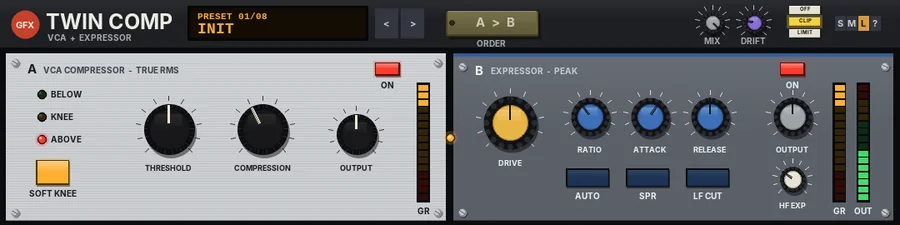
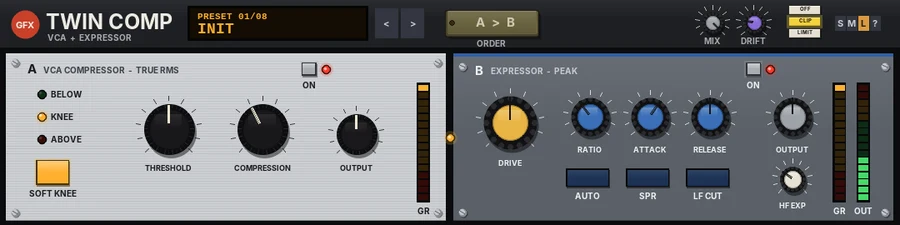
Twin Comp: panel image and manual for the new ON keys
Claude-Session: https://claude.ai/code/session_01EwsggPNgywXX6HG8VAWiaU

diff --git a/Manuals/gfx-twin-comp.html b/Manuals/gfx-twin-comp.html
@@ -47,7 +47,7 @@ footer{border-top:1px solid var(--line);margin-top:40px;padding:24px 0 40px;colo
 <div class="shot"><img src="img/gfx-twin-comp.webp" alt="The Twin Comp panel" loading="lazy"></div>
 <h2>Overview</h2><p>Twin Comp puts two very different compressors side by side. Unit A is a VCA compressor in the spirit of the classic late-70s RMS boxes: it measures loudness rather than peaks, has a soft knee, and its timing follows the music. Its COMPRESSION knob runs from 1:1 through INF:1 and on into negative ratios.</p><p>Unit B is an Expressor in the spirit of the classic 80s expander-compressors: peak-sensing with a smooth knee, with DRIVE, RATIO, ATTACK and RELEASE, an AUTO timing mode, HF EXP to keep the top open under heavy compression, SPR to firm up the low end and LF CUT to stop the bass from pumping it.</p><p>ORDER sets which unit comes first, and the two units swap places on the panel to match. MIX blends in the dry signal for parallel compression.</p>
 <h3>Reach for it for</h3><ul class="when"><li>Drum buses that want punch and control (A into B)</li><li>Vocals that need firm, open-sounding compression (B with HF EXP)</li><li>Bass that needs a tight, steady bottom (SPR)</li><li>Gentle glue on a mix (both units lightly)</li><li>Pumping and reverse-dynamics effects (A past INF)</li></ul>
-<h2>Controls</h2><p>Drag a knob up or down to turn it (hold Shift for fine moves), or double-click to reset it. The value shows while the mouse is over a knob, and the display shows the control you are changing.</p><h3>The top strip</h3><dl class="ctl"><dt>Display</dt><dd>Shows the preset number and name, or for a moment the control you have just changed. Click it for the preset list.</dd><dt>&lt; and &gt;</dt><dd>Step to the previous or next preset.</dd><dt>ORDER</dt><dd>Click to swap the order: A &gt; B or B &gt; A. The two units change places on the panel so the first one is on the left. The key's light shows while it is held.</dd><dt>MIX</dt><dd>Parallel compression, 0 - 100%: 100% is fully compressed, lower settings blend the dry signal back in.</dd><dt>DRIFT</dt><dd>An uneven supply under both VCAs, 0 - 100% (20% by default): each unit's gain wobbles very slightly (up to +/-0.15 dB at 100%) and unit A's colour moves with it. It stays level-neutral.</dd><dt>OFF / CLIP / LIMIT</dt><dd>The final stage: nothing, a soft clipper that holds the peaks at -0.3 dBFS (no latency), or a lookahead limiter that holds them at -0.3 dBFS (3 ms latency, compensated by REAPER). The CLIP key flashes red while the clipper is working.</dd><dt>S / M / L</dt><dd>Panel size: small, medium or large. The panel also scales to fit the plugin window.</dd><dt>?</dt><dd>Opens a pop-up with the design credit, the GFX website address and the address of this manual. Click anywhere to close it.</dd></dl><h3>A - VCA COMPRESSOR (true RMS)</h3><dl class="ctl"><dt>ON</dt><dd>Switches unit A in or out.</dd><dt>BELOW / KNEE / ABOVE</dt><dd>Three lights showing where the level sits against the threshold: green below it, amber in the soft knee, red above it.</dd><dt>THRESHOLD</dt><dd>The level where compression starts, -40 to 0 dB. Because the unit measures loudness, it relates to the average level rather than the peaks.</dd><dt>COMPRESSION</dt><dd>The ratio. From fully left (1:1) it rises to INF:1 at 80% of its travel; past that it becomes negative, down to -2:1 at the end: the louder the input, the quieter the output. The value is shown as a ratio.</dd><dt>OUTPUT</dt><dd>Unit A's make-up gain, -20 to +20 dB.</dd><dt>SOFT KNEE</dt><dd>On (default): the ratio eases in over 10 dB around the threshold. Off: a hard knee, firmer and more obvious.</dd><dt>GR</dt><dd>The column of lights shows unit A's gain reduction, 0 to 20 dB.</dd></dl><p>There are no attack or release controls on unit A: the further the signal goes over the threshold, the faster it reacts (about 15 ms for 10 dB over, 5 ms for 20 dB), and it recovers at a steady 120 dB per second. It adds a whisper of 2nd harmonic that grows with the gain reduction.</p><h3>B - EXPRESSOR (peak)</h3><dl class="ctl"><dt>ON</dt><dd>Switches unit B in or out.</dd><dt>DRIVE</dt><dd>How hard the signal is pushed into the compressor, 0 to +40 dB. More drive means more compression (it sets the threshold from 0 down to -40 dB).</dd><dt>RATIO</dt><dd>1:1 to 20:1.</dd><dt>ATTACK</dt><dd>0.1 - 50 ms. Reads AUTO when AUTO is on.</dd><dt>RELEASE</dt><dd>30 ms - 3 s. Reads AUTO when AUTO is on.</dd><dt>OUTPUT</dt><dd>Unit B's make-up gain, -20 to +20 dB.</dd><dt>AUTO</dt><dd>Automatic, smooth optical-style timing: a quick attack and a two-stage release that follows the programme. ATTACK and RELEASE are not used.</dd><dt>SPR</dt><dd>Rotates the phase of the low end against the top (two all-pass stages at 180 Hz) for a tighter, firmer bottom.</dd><dt>LF CUT</dt><dd>A 150 Hz high-pass on what the compressor listens to only, so bass peaks no longer pump it. The bass itself is not filtered.</dd><dt>HF EXP</dt><dd>0 - 100%: lifts the top end (above about 3.5 kHz) in proportion to the gain reduction, up to +6 dB, so heavy compression stays open and bright.</dd><dt>GR</dt><dd>The column of lights shows unit B's gain reduction, 0 to 20 dB.</dd><dt>OUT</dt><dd>The output level of the whole plug-in, -30 dBFS to 0.</dd></dl><p>A light between the two units glows when both are on.</p>
+<h2>Controls</h2><p>Drag a knob up or down to turn it (hold Shift for fine moves), or double-click to reset it. The value shows while the mouse is over a knob, and the display shows the control you are changing.</p><h3>The top strip</h3><dl class="ctl"><dt>Display</dt><dd>Shows the preset number and name, or for a moment the control you have just changed. Click it for the preset list.</dd><dt>&lt; and &gt;</dt><dd>Step to the previous or next preset.</dd><dt>ORDER</dt><dd>Click to swap the order: A &gt; B or B &gt; A. The two units change places on the panel so the first one is on the left. The key's light shows while it is held.</dd><dt>MIX</dt><dd>Parallel compression, 0 - 100%: 100% is fully compressed, lower settings blend the dry signal back in.</dd><dt>DRIFT</dt><dd>An uneven supply under both VCAs, 0 - 100% (20% by default): each unit's gain wobbles very slightly (up to +/-0.15 dB at 100%) and unit A's colour moves with it. It stays level-neutral.</dd><dt>OFF / CLIP / LIMIT</dt><dd>The final stage: nothing, a soft clipper that holds the peaks at -0.3 dBFS (no latency), or a lookahead limiter that holds them at -0.3 dBFS (3 ms latency, compensated by REAPER). The CLIP key flashes red while the clipper is working.</dd><dt>S / M / L</dt><dd>Panel size: small, medium or large. The panel also scales to fit the plugin window.</dd><dt>?</dt><dd>Opens a pop-up with the design credit, the GFX website address and the address of this manual. Click anywhere to close it.</dd></dl><h3>A - VCA COMPRESSOR (true RMS)</h3><dl class="ctl"><dt>ON</dt><dd>Switches unit A in or out. The red light beside it is lit while the unit is in.</dd><dt>BELOW / KNEE / ABOVE</dt><dd>Three lights showing where the level sits against the threshold: green below it, amber in the soft knee, red above it.</dd><dt>THRESHOLD</dt><dd>The level where compression starts, -40 to 0 dB. Because the unit measures loudness, it relates to the average level rather than the peaks.</dd><dt>COMPRESSION</dt><dd>The ratio. From fully left (1:1) it rises to INF:1 at 80% of its travel; past that it becomes negative, down to -2:1 at the end: the louder the input, the quieter the output. The value is shown as a ratio.</dd><dt>OUTPUT</dt><dd>Unit A's make-up gain, -20 to +20 dB.</dd><dt>SOFT KNEE</dt><dd>On (default): the ratio eases in over 10 dB around the threshold. Off: a hard knee, firmer and more obvious.</dd><dt>GR</dt><dd>The column of lights shows unit A's gain reduction, 0 to 20 dB.</dd></dl><p>There are no attack or release controls on unit A: the further the signal goes over the threshold, the faster it reacts (about 15 ms for 10 dB over, 5 ms for 20 dB), and it recovers at a steady 120 dB per second. It adds a whisper of 2nd harmonic that grows with the gain reduction.</p><h3>B - EXPRESSOR (peak)</h3><dl class="ctl"><dt>ON</dt><dd>Switches unit B in or out. The red light beside it is lit while the unit is in.</dd><dt>DRIVE</dt><dd>How hard the signal is pushed into the compressor, 0 to +40 dB. More drive means more compression (it sets the threshold from 0 down to -40 dB).</dd><dt>RATIO</dt><dd>1:1 to 20:1.</dd><dt>ATTACK</dt><dd>0.1 - 50 ms. Reads AUTO when AUTO is on.</dd><dt>RELEASE</dt><dd>30 ms - 3 s. Reads AUTO when AUTO is on.</dd><dt>OUTPUT</dt><dd>Unit B's make-up gain, -20 to +20 dB.</dd><dt>AUTO</dt><dd>Automatic, smooth optical-style timing: a quick attack and a two-stage release that follows the programme. ATTACK and RELEASE are not used.</dd><dt>SPR</dt><dd>Rotates the phase of the low end against the top (two all-pass stages at 180 Hz) for a tighter, firmer bottom.</dd><dt>LF CUT</dt><dd>A 150 Hz high-pass on what the compressor listens to only, so bass peaks no longer pump it. The bass itself is not filtered.</dd><dt>HF EXP</dt><dd>0 - 100%: lifts the top end (above about 3.5 kHz) in proportion to the gain reduction, up to +6 dB, so heavy compression stays open and bright.</dd><dt>GR</dt><dd>The column of lights shows unit B's gain reduction, 0 to 20 dB.</dd><dt>OUT</dt><dd>The output level of the whole plug-in, -30 dBFS to 0.</dd></dl><p>A light between the two units glows when both are on.</p>
 <h2>Presets</h2><p>A preset sets the order, both units, which units are on, and MIX. DRIFT and the OFF / CLIP / LIMIT keys are left as they are.</p><dl class="ctl"><dt>Init</dt><dd>Both units on, A &gt; B, at their starting values.</dd><dt>Drum Bus</dt><dd>Unit A only at 4:1 with a soft knee and 4 dB of make-up.</dd><dt>Vocal Expressor</dt><dd>Unit B only, 4:1 with AUTO timing, LF CUT and HF EXP, 5 dB of make-up.</dd><dt>Bass Tight</dt><dd>A &gt; B: A with a hard knee, then B with SPR for a firm bottom.</dd><dt>Mix Glue</dt><dd>B &gt; A: gentle 2:1 Expressor with AUTO, SPR and LF CUT, then light VCA compression.</dd><dt>Parallel Smash</dt><dd>A &gt; B, both working hard (A with a hard knee, B at 8:1 with fast timing), blended in at 40%.</dd><dt>Acoustic Natural</dt><dd>Unit B only, 2.5:1 with AUTO timing, LF CUT and a little HF EXP.</dd><dt>Negative Pump</dt><dd>Unit A only, past INF for pumping and reverse-dynamics effects.</dd></dl>
 <h2>Tips</h2><ul class="tips"><li>A &gt; B lets the VCA level the performance and the Expressor catch the peaks; B &gt; A lets the Expressor shape the tone first and the VCA glue it.</li><li>On a vocal, raise HF EXP as you add DRIVE on unit B, so the voice stays clear as it gets more compressed.</li><li>Watch the BELOW / KNEE / ABOVE lights: for gentle levelling, the amber KNEE light should be on most of the time.</li><li>Negative ratios sound best on sustained material and with MIX below 100%.</li></ul>
 <p class="file">File: gfx-twin-comp.jsfx</p></section></main>

diff --git a/Manuals/all.html b/Manuals/all.html
@@ -539,7 +539,7 @@ footer{border-top:1px solid var(--line);margin-top:40px;padding:24px 0 40px;colo
 <div class="shot"><img src="img/gfx-twin-comp.webp" alt="The Twin Comp panel" loading="lazy"></div>
 <h2>Overview</h2><p>Twin Comp puts two very different compressors side by side. Unit A is a VCA compressor in the spirit of the classic late-70s RMS boxes: it measures loudness rather than peaks, has a soft knee, and its timing follows the music. Its COMPRESSION knob runs from 1:1 through INF:1 and on into negative ratios.</p><p>Unit B is an Expressor in the spirit of the classic 80s expander-compressors: peak-sensing with a smooth knee, with DRIVE, RATIO, ATTACK and RELEASE, an AUTO timing mode, HF EXP to keep the top open under heavy compression, SPR to firm up the low end and LF CUT to stop the bass from pumping it.</p><p>ORDER sets which unit comes first, and the two units swap places on the panel to match. MIX blends in the dry signal for parallel compression.</p>
 <h3>Reach for it for</h3><ul class="when"><li>Drum buses that want punch and control (A into B)</li><li>Vocals that need firm, open-sounding compression (B with HF EXP)</li><li>Bass that needs a tight, steady bottom (SPR)</li><li>Gentle glue on a mix (both units lightly)</li><li>Pumping and reverse-dynamics effects (A past INF)</li></ul>
-<h2>Controls</h2><p>Drag a knob up or down to turn it (hold Shift for fine moves), or double-click to reset it. The value shows while the mouse is over a knob, and the display shows the control you are changing.</p><h3>The top strip</h3><dl class="ctl"><dt>Display</dt><dd>Shows the preset number and name, or for a moment the control you have just changed. Click it for the preset list.</dd><dt>&lt; and &gt;</dt><dd>Step to the previous or next preset.</dd><dt>ORDER</dt><dd>Click to swap the order: A &gt; B or B &gt; A. The two units change places on the panel so the first one is on the left. The key's light shows while it is held.</dd><dt>MIX</dt><dd>Parallel compression, 0 - 100%: 100% is fully compressed, lower settings blend the dry signal back in.</dd><dt>DRIFT</dt><dd>An uneven supply under both VCAs, 0 - 100% (20% by default): each unit's gain wobbles very slightly (up to +/-0.15 dB at 100%) and unit A's colour moves with it. It stays level-neutral.</dd><dt>OFF / CLIP / LIMIT</dt><dd>The final stage: nothing, a soft clipper that holds the peaks at -0.3 dBFS (no latency), or a lookahead limiter that holds them at -0.3 dBFS (3 ms latency, compensated by REAPER). The CLIP key flashes red while the clipper is working.</dd><dt>S / M / L</dt><dd>Panel size: small, medium or large. The panel also scales to fit the plugin window.</dd><dt>?</dt><dd>Opens a pop-up with the design credit, the GFX website address and the address of this manual. Click anywhere to close it.</dd></dl><h3>A - VCA COMPRESSOR (true RMS)</h3><dl class="ctl"><dt>ON</dt><dd>Switches unit A in or out.</dd><dt>BELOW / KNEE / ABOVE</dt><dd>Three lights showing where the level sits against the threshold: green below it, amber in the soft knee, red above it.</dd><dt>THRESHOLD</dt><dd>The level where compression starts, -40 to 0 dB. Because the unit measures loudness, it relates to the average level rather than the peaks.</dd><dt>COMPRESSION</dt><dd>The ratio. From fully left (1:1) it rises to INF:1 at 80% of its travel; past that it becomes negative, down to -2:1 at the end: the louder the input, the quieter the output. The value is shown as a ratio.</dd><dt>OUTPUT</dt><dd>Unit A's make-up gain, -20 to +20 dB.</dd><dt>SOFT KNEE</dt><dd>On (default): the ratio eases in over 10 dB around the threshold. Off: a hard knee, firmer and more obvious.</dd><dt>GR</dt><dd>The column of lights shows unit A's gain reduction, 0 to 20 dB.</dd></dl><p>There are no attack or release controls on unit A: the further the signal goes over the threshold, the faster it reacts (about 15 ms for 10 dB over, 5 ms for 20 dB), and it recovers at a steady 120 dB per second. It adds a whisper of 2nd harmonic that grows with the gain reduction.</p><h3>B - EXPRESSOR (peak)</h3><dl class="ctl"><dt>ON</dt><dd>Switches unit B in or out.</dd><dt>DRIVE</dt><dd>How hard the signal is pushed into the compressor, 0 to +40 dB. More drive means more compression (it sets the threshold from 0 down to -40 dB).</dd><dt>RATIO</dt><dd>1:1 to 20:1.</dd><dt>ATTACK</dt><dd>0.1 - 50 ms. Reads AUTO when AUTO is on.</dd><dt>RELEASE</dt><dd>30 ms - 3 s. Reads AUTO when AUTO is on.</dd><dt>OUTPUT</dt><dd>Unit B's make-up gain, -20 to +20 dB.</dd><dt>AUTO</dt><dd>Automatic, smooth optical-style timing: a quick attack and a two-stage release that follows the programme. ATTACK and RELEASE are not used.</dd><dt>SPR</dt><dd>Rotates the phase of the low end against the top (two all-pass stages at 180 Hz) for a tighter, firmer bottom.</dd><dt>LF CUT</dt><dd>A 150 Hz high-pass on what the compressor listens to only, so bass peaks no longer pump it. The bass itself is not filtered.</dd><dt>HF EXP</dt><dd>0 - 100%: lifts the top end (above about 3.5 kHz) in proportion to the gain reduction, up to +6 dB, so heavy compression stays open and bright.</dd><dt>GR</dt><dd>The column of lights shows unit B's gain reduction, 0 to 20 dB.</dd><dt>OUT</dt><dd>The output level of the whole plug-in, -30 dBFS to 0.</dd></dl><p>A light between the two units glows when both are on.</p>
+<h2>Controls</h2><p>Drag a knob up or down to turn it (hold Shift for fine moves), or double-click to reset it. The value shows while the mouse is over a knob, and the display shows the control you are changing.</p><h3>The top strip</h3><dl class="ctl"><dt>Display</dt><dd>Shows the preset number and name, or for a moment the control you have just changed. Click it for the preset list.</dd><dt>&lt; and &gt;</dt><dd>Step to the previous or next preset.</dd><dt>ORDER</dt><dd>Click to swap the order: A &gt; B or B &gt; A. The two units change places on the panel so the first one is on the left. The key's light shows while it is held.</dd><dt>MIX</dt><dd>Parallel compression, 0 - 100%: 100% is fully compressed, lower settings blend the dry signal back in.</dd><dt>DRIFT</dt><dd>An uneven supply under both VCAs, 0 - 100% (20% by default): each unit's gain wobbles very slightly (up to +/-0.15 dB at 100%) and unit A's colour moves with it. It stays level-neutral.</dd><dt>OFF / CLIP / LIMIT</dt><dd>The final stage: nothing, a soft clipper that holds the peaks at -0.3 dBFS (no latency), or a lookahead limiter that holds them at -0.3 dBFS (3 ms latency, compensated by REAPER). The CLIP key flashes red while the clipper is working.</dd><dt>S / M / L</dt><dd>Panel size: small, medium or large. The panel also scales to fit the plugin window.</dd><dt>?</dt><dd>Opens a pop-up with the design credit, the GFX website address and the address of this manual. Click anywhere to close it.</dd></dl><h3>A - VCA COMPRESSOR (true RMS)</h3><dl class="ctl"><dt>ON</dt><dd>Switches unit A in or out. The red light beside it is lit while the unit is in.</dd><dt>BELOW / KNEE / ABOVE</dt><dd>Three lights showing where the level sits against the threshold: green below it, amber in the soft knee, red above it.</dd><dt>THRESHOLD</dt><dd>The level where compression starts, -40 to 0 dB. Because the unit measures loudness, it relates to the average level rather than the peaks.</dd><dt>COMPRESSION</dt><dd>The ratio. From fully left (1:1) it rises to INF:1 at 80% of its travel; past that it becomes negative, down to -2:1 at the end: the louder the input, the quieter the output. The value is shown as a ratio.</dd><dt>OUTPUT</dt><dd>Unit A's make-up gain, -20 to +20 dB.</dd><dt>SOFT KNEE</dt><dd>On (default): the ratio eases in over 10 dB around the threshold. Off: a hard knee, firmer and more obvious.</dd><dt>GR</dt><dd>The column of lights shows unit A's gain reduction, 0 to 20 dB.</dd></dl><p>There are no attack or release controls on unit A: the further the signal goes over the threshold, the faster it reacts (about 15 ms for 10 dB over, 5 ms for 20 dB), and it recovers at a steady 120 dB per second. It adds a whisper of 2nd harmonic that grows with the gain reduction.</p><h3>B - EXPRESSOR (peak)</h3><dl class="ctl"><dt>ON</dt><dd>Switches unit B in or out. The red light beside it is lit while the unit is in.</dd><dt>DRIVE</dt><dd>How hard the signal is pushed into the compressor, 0 to +40 dB. More drive means more compression (it sets the threshold from 0 down to -40 dB).</dd><dt>RATIO</dt><dd>1:1 to 20:1.</dd><dt>ATTACK</dt><dd>0.1 - 50 ms. Reads AUTO when AUTO is on.</dd><dt>RELEASE</dt><dd>30 ms - 3 s. Reads AUTO when AUTO is on.</dd><dt>OUTPUT</dt><dd>Unit B's make-up gain, -20 to +20 dB.</dd><dt>AUTO</dt><dd>Automatic, smooth optical-style timing: a quick attack and a two-stage release that follows the programme. ATTACK and RELEASE are not used.</dd><dt>SPR</dt><dd>Rotates the phase of the low end against the top (two all-pass stages at 180 Hz) for a tighter, firmer bottom.</dd><dt>LF CUT</dt><dd>A 150 Hz high-pass on what the compressor listens to only, so bass peaks no longer pump it. The bass itself is not filtered.</dd><dt>HF EXP</dt><dd>0 - 100%: lifts the top end (above about 3.5 kHz) in proportion to the gain reduction, up to +6 dB, so heavy compression stays open and bright.</dd><dt>GR</dt><dd>The column of lights shows unit B's gain reduction, 0 to 20 dB.</dd><dt>OUT</dt><dd>The output level of the whole plug-in, -30 dBFS to 0.</dd></dl><p>A light between the two units glows when both are on.</p>
 <h2>Presets</h2><p>A preset sets the order, both units, which units are on, and MIX. DRIFT and the OFF / CLIP / LIMIT keys are left as they are.</p><dl class="ctl"><dt>Init</dt><dd>Both units on, A &gt; B, at their starting values.</dd><dt>Drum Bus</dt><dd>Unit A only at 4:1 with a soft knee and 4 dB of make-up.</dd><dt>Vocal Expressor</dt><dd>Unit B only, 4:1 with AUTO timing, LF CUT and HF EXP, 5 dB of make-up.</dd><dt>Bass Tight</dt><dd>A &gt; B: A with a hard knee, then B with SPR for a firm bottom.</dd><dt>Mix Glue</dt><dd>B &gt; A: gentle 2:1 Expressor with AUTO, SPR and LF CUT, then light VCA compression.</dd><dt>Parallel Smash</dt><dd>A &gt; B, both working hard (A with a hard knee, B at 8:1 with fast timing), blended in at 40%.</dd><dt>Acoustic Natural</dt><dd>Unit B only, 2.5:1 with AUTO timing, LF CUT and a little HF EXP.</dd><dt>Negative Pump</dt><dd>Unit A only, past INF for pumping and reverse-dynamics effects.</dd></dl>
 <h2>Tips</h2><ul class="tips"><li>A &gt; B lets the VCA level the performance and the Expressor catch the peaks; B &gt; A lets the Expressor shape the tone first and the VCA glue it.</li><li>On a vocal, raise HF EXP as you add DRIVE on unit B, so the voice stays clear as it gets more compressed.</li><li>Watch the BELOW / KNEE / ABOVE lights: for gentle levelling, the amber KNEE light should be on most of the time.</li><li>Negative ratios sound best on sustained material and with MIX below 100%.</li></ul>
 <p class="file">File: gfx-twin-comp.jsfx</p></section>
